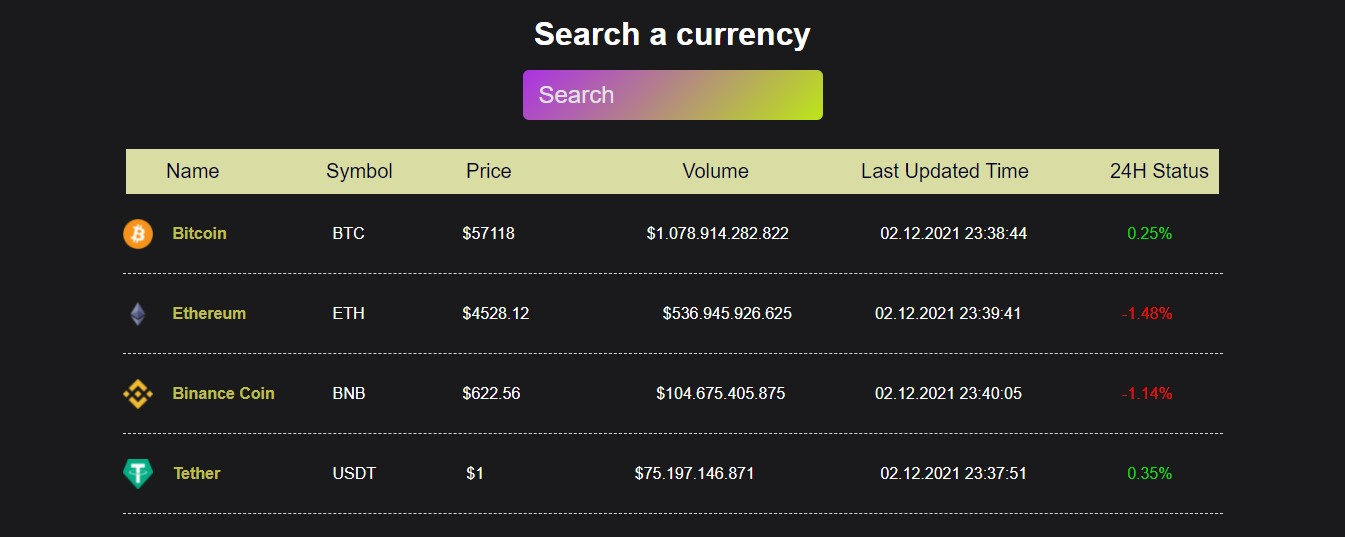
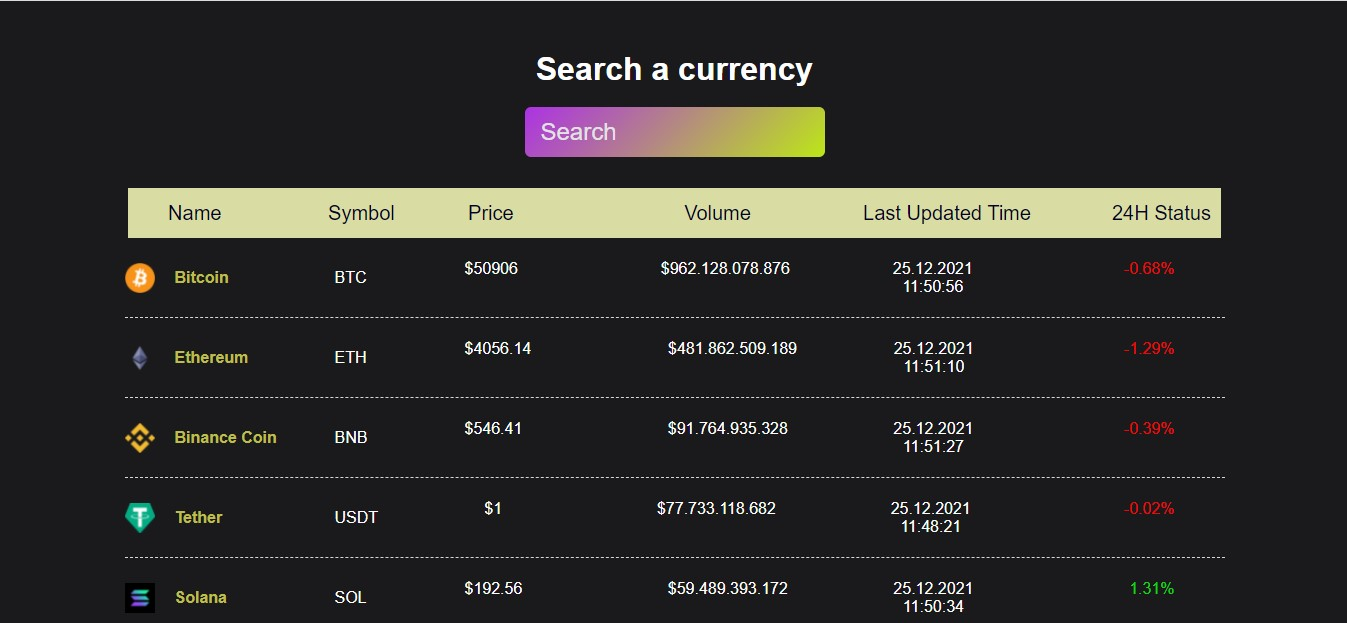
updated

diff --git a/src/Coin.css b/src/Coin.css
@@ -50,19 +50,19 @@
   
   .coin-price {
     width: 70px;
+    margin-right: 40px;
     
   }
   
   .coin-volume {
-    width: 100%;
-    margin-left: 100px;
+    width: 90%;
     text-align:center;
   }
+  
   .coin-last-update {
-      width: 100%;
-      margin-left: none;
-      margin-right: 100px;
-
+      width: 100px;
+      margin-right: 150px;
+      text-align: center;
   }
   
   .coin-percent {

diff --git a/src/App.css b/src/App.css
@@ -73,7 +73,6 @@
 
 .last-update {
   right: 190px;
-
 }
 
 .volume {

diff --git a/README.md b/README.md
@@ -5,6 +5,10 @@ You will see live prices of the chosen currencies
 
 ---
 
+## Below you will see the page of a game
+
+![alt text](https://github.com/barisdevjs/crypto-tracker/blob/main/crypto.jpg)
+
 In this project :
 #### Coingecko API
 #### React useState, useEffect Hooks
